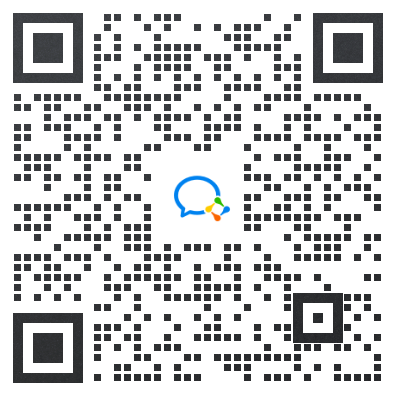
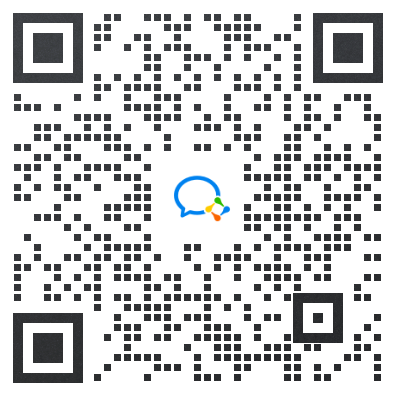
update

diff --git a/index.html b/index.html
@@ -266,10 +266,11 @@
                     <li><a class="nav-link scrollto" href="#committee">会议主办方</a></li>
                     <li><a class="nav-link scrollto" href="#gallery">往期活动</a></li>
                     <li><a class="nav-link scrollto" href="#footer">联系我们</a></li>
+                    <li><a class="nav-link scrollto" href="https://www.mlnlp2022.com/" target="_blank">往届会议</a></li>
                 </ul>
                 <i class="bi bi-list mobile-nav-toggle"></i>
             </nav><!-- .navbar -->
-            <a class="buy-tickets scrollto" href="https://space.bilibili.com/168887299" target="_blank">回放</a>
+            <a class="buy-tickets scrollto" href="https://event.baai.ac.cn/event/705" target="_blank">注册</a>
 
         </div>
     </header><!-- End Header -->
@@ -291,10 +292,6 @@
                 <div class="tab-content row justify-content-center" data-aos="fade-up" data-aos-delay="200">
                     <div role="tabpanel" class="col-lg-9 tab-pane fade show active" id="about_content">
                         <div class="about-item">
-                            <!-- <p><b>MLNLP 大会</b>旨在为人工智能、机器学习与自然语言处理领域内的学者提供一个学术交流的平台。
-                                本届<b> MLNLP 大会</b>将于<b> 2022 年 11 月 26、27 日</b>线上举行，内容涵盖<b>高效 AI</b>、
-                                <b>推荐系统</b>、<b>机器翻译</b>等 6 个主题论坛，<b>论文实践</b>、<b>圆桌对话</b>等 2 个特色论坛，期待能够促进国内外机器学习、
-                                自然语言处理学术界、产业界和广大爱好者之间的交流与进步。 -->
                             <p><b>MLNLP 大会</b>旨在为人工智能、机器学习与自然语言处理领域内的学者提供一个学术交流的平台。 本届 <b> MLNLP 大会</b>将于<b>2023 年 9 月
                                     23、24 日</b>
                                 线上举行，内容涵盖<b>大模型的构建与微调</b>、<b>大模型与推荐</b>、<b>大模型评估与安全</b>、<b>多模态多语言大模型</b>、<b>大模型与知识图谱</b>、<b>大模型技术与应用</b>等主题，期待能够促进国内外机器学习、
@@ -770,7 +767,7 @@
                             <div class="row schedule-item">
                                 <div class="col-lg-4 col-md-4 d-flex align-items-stretch schedule-card">
                                     <a class="member aos-init aos-animate" data-aos="fade-up"
-                                        href="https://goodbai-nlp.github.io/">
+                                        href="https://goodbai-nlp.github.io/" target="_blank">
                                         <div class="speaker">
                                             <img loading="lazy" src="assets/img/committee/baixuefeng.png" alt="">
                                         </div>
@@ -782,7 +779,7 @@
                                 </div>
                                 <div class="col-lg-4 col-md-4 d-flex align-items-stretch schedule-card">
                                     <a class="member aos-init aos-animate" data-aos="fade-up"
-                                        href="https://donmaclean7.github.io/">
+                                        href="https://donmaclean7.github.io/" target="_blank">
                                         <div class="speaker">
                                             <img loading="lazy" src="assets/img/committee/chenzhi.png" alt="">
                                         </div>
@@ -794,13 +791,51 @@
                                 </div>
                                 <div class="col-lg-4 col-md-4 d-flex align-items-stretch schedule-card">
                                     <a class="member aos-init aos-animate" data-aos="fade-up"
-                                        href="https://scholar.google.com/citations?user=1HLT2d8AAAAJ&hl=zh-CN">
+                                        href="https://ttslr.github.io/index_ruiliu.html" target="_blank">
+                                        <div class="speaker">
+                                            <img loading="lazy" src="assets/img/committee/liurui.png" alt="">
+                                        </div>
+                                        <div class="member-info">
+                                            <h4>刘瑞</h4>
+                                            <span>内蒙古大学</span>
+                                        </div>
+                                    </a>
+                                </div>
+                                <div class="col-lg-4 col-md-4 d-flex align-items-stretch schedule-card">
+                                    <a class="member aos-init aos-animate" data-aos="fade-up"
+                                        href="https://sunbowliu.github.io/" target="_blank">
+                                        <div class="speaker">
+                                            <img loading="lazy" src="assets/img/committee/liuxuebo.png" alt="">
+                                        </div>
+                                        <div class="member-info">
+                                            <h4>刘学博</h4>
+                                            <span>哈尔滨工业大学（深圳）</span>
+                                        </div>
+                                    </a>
+                                </div>
+                                <div class="col-lg-4 col-md-4 d-flex align-items-stretch schedule-card">
+                                    <a class="member aos-init aos-animate" data-aos="fade-up"
+                                        href="https://scholar.google.com/citations?user=1HLT2d8AAAAJ&hl=zh-CN"
+                                        target="_blank">
                                         <div class="speaker">
                                             <img loading="lazy" src="assets/img/committee/luwenpeng.png" alt="">
                                         </div>
                                         <div class="member-info">
                                             <h4>鹿文鹏</h4>
                                             <span>齐鲁工业大学</span>
+                                        </div>
+                                    </a>
+                                </div>
+                                <div class="col-lg-4 col-md-4 d-flex align-items-stretch schedule-card">
+                                    <a class="member aos-init aos-animate" data-aos="fade-up"
+                                        href="https://scholar.google.co.uk/citations?user=O7_F8k0AAAAJ&hl=en"
+                                        target="_blank">
+                                        <div class="speaker">
+                                            <img loading="lazy" src="assets/img/committee/wangyu.png" alt="">
+                                        </div>
+                                        <div class="member-info">
+                                            <h4>王钰</h4>
+                                            <span>上海交通大学</span>
                                         </div>
                                     </a>
                                 </div>
@@ -913,21 +948,26 @@
                             MLNLP社区的愿景是促进国内外自然语言处理，机器学习学术界、产业界和广大爱好者之间的交流和进步，特别是初学者同学们的进步。</p>
                     </div>
 
-                    <div class="col-lg-3 col-md-4 footer-wechat">
+                    <div class="col-lg-2 col-md-4 footer-wechat">
                         <h4>微信公众号</h4>
                         <img src="assets/img/wechat.jpg" alt="MLNLP_wechat">
                     </div>
 
-                    <div class="col-lg-3 col-md-4 footer-wechat">
+                    <div class="col-lg-2 col-md-4 footer-wechat">
+                        <h4>微信群聊</h4>
+                        <img src="assets/img/wechat_group.png" alt="MLNLP_wechat">
+                    </div>
+
+                    <div class="col-lg-2 col-md-4 footer-wechat">
                         <h4>扫码注册</h4>
                         <img src="assets/img/register.png" alt="MLNLP2022_register">
                     </div>
 
-                    <div class="col-lg-3 col-md-6 footer-contact">
+                    <div class="col-lg-2 col-md-6 footer-contact">
                         <h4>联系我们</h4>
                         <p>
                             <strong>邮箱:</strong><a href="mailto:contact@mlnlp2023.com"
-                                style="color: #ffffff;">contact@mlnlp2022.com</a><br>
+                                style="color: #ffffff;">contact@mlnlp2023.com</a><br>
                         </p>
 
                         <div class="social-links">

diff --git a/assets/css/style.css b/assets/css/style.css
@@ -838,7 +838,7 @@ h6 {
 }
 
 #schedule .nav-tabs li {
-    width: 8vw;
+    width: 10vw;
     min-width: 100px;
     max-width: 150px;
     display: inline-block;
